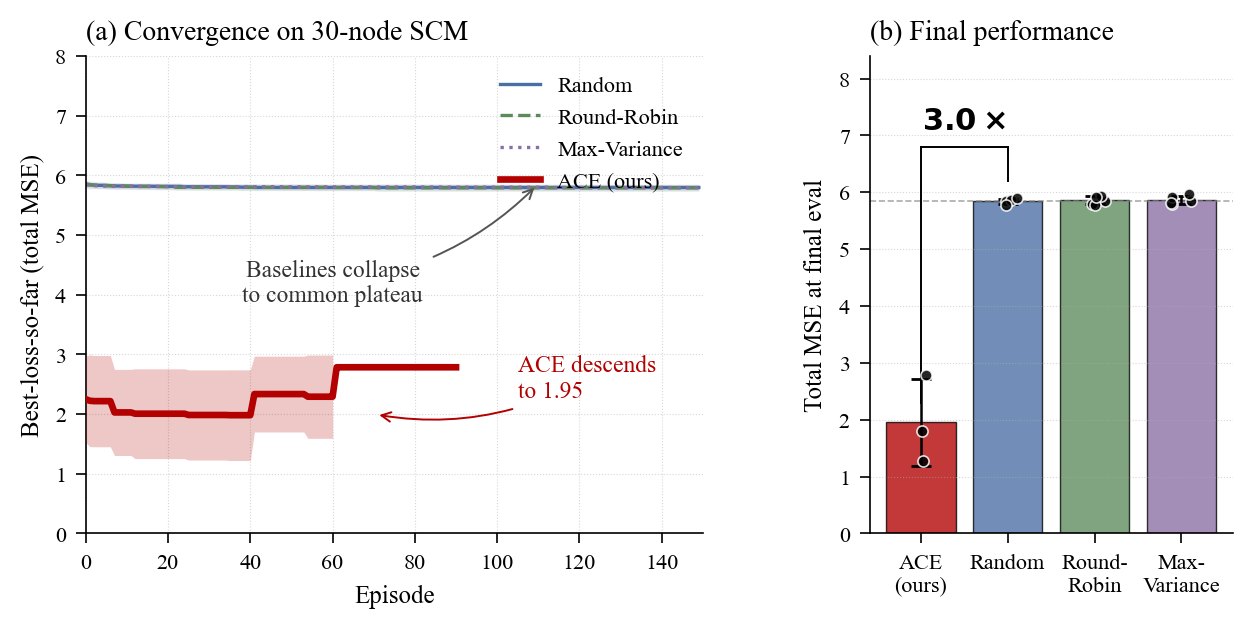
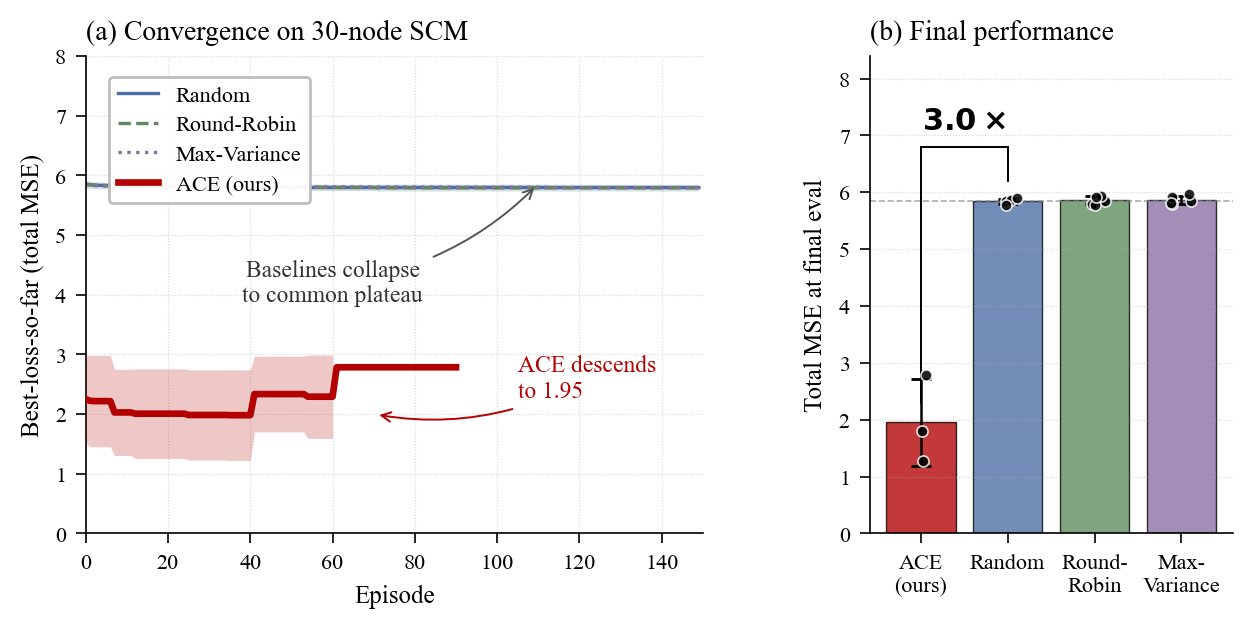
Move 30-node legend to upper-left with opaque white frame
The legend at upper-right with frameon=False let the baseline plateau
line at y=5.86 show through behind the bottom 'ACE (ours)' entry.
Moved legend to bbox_to_anchor=(0.02, 0.98) (upper-left) with
frameon=True, framealpha=0.95, edgecolor=#bbbbbb so the legend cleanly
occludes any underlying data without sitting on the descending ACE
curve or its variance band.

Changed region(s): [[0.0623, 0.121, 0.2492, 0.3328], [0.405, 0.1815, 0.5607, 0.3025], [0.405, 0.121, 0.4984, 0.1513]]

diff --git a/scripts/analysis/plot_30node_results.py b/scripts/analysis/plot_30node_results.py
@@ -165,7 +165,18 @@ axL.set_title("(a) Convergence on 30-node SCM", loc="left", pad=6)
 axL.set_xlim(0, 150)
 axL.set_ylim(0, 8)
 axL.grid(True, linestyle=":", linewidth=0.4, alpha=0.5)
-axL.legend(loc="upper right", frameon=False, handlelength=1.8, fontsize=8)
+axL.legend(
+    loc="upper left",
+    bbox_to_anchor=(0.02, 0.98),
+    frameon=True,
+    facecolor="white",
+    framealpha=0.95,
+    edgecolor="#bbbbbb",
+    handlelength=1.8,
+    fontsize=8,
+    borderpad=0.4,
+    labelspacing=0.4,
+)
 
 # === Panel B: bar chart with per-seed scatter, cleaner bracket ===
 labels = ["ACE\n(ours)", "Random", "Round-\nRobin", "Max-\nVariance"]
